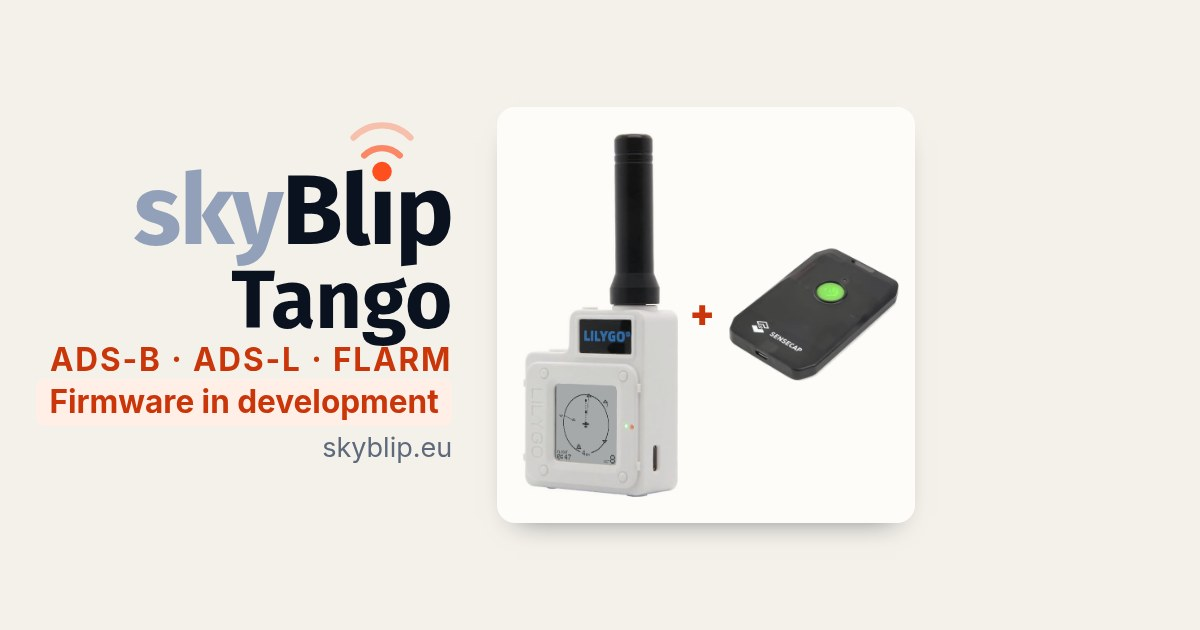
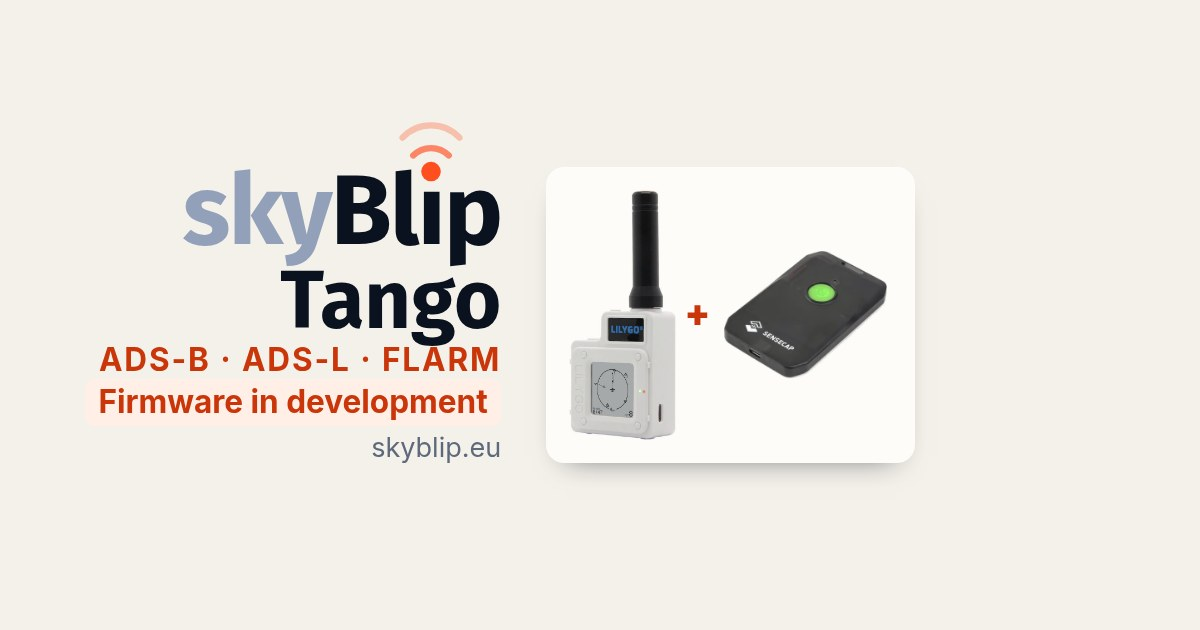
ui(website): draw the Go and the X1 at their real relative size
Every pair drew both photos at one height, so the X1 showed about 1.7
times too big beside the Go, and the share card about 30 % too small.
Measured off the X1's 90 mm edge and the T-Echo's 54 mm face, the X1
photo is 0.57 of the Go photo's height: photo-x1 carries that scale,
and every pair, lineup, offer and the Tango share card multiply by it.
The Tango card's pair shrinks to fit the square crop at that scale, and
the Tango caption now says to scale.

Changed region(s): [[0.0308, 0.181, 0.7708, 0.7841], [0.4317, 0.8143, 0.74, 0.8444]]

diff --git a/server/app/assets/stylesheets/products.css b/server/app/assets/stylesheets/products.css
@@ -32,7 +32,7 @@
   .lineup p:not(.status) { color: var(--card-ink); font-size: var(--text-s); }
   .lineup h2 a { color: var(--ink); }
 
-  .lineup .pair img { block-size: 8rem; }
+  .lineup .pair img { block-size: calc(8rem * var(--photo-scale, 1)); }
 
   @media (max-width: 40rem) {
     .lineup > li {
@@ -50,9 +50,9 @@
     .lineup > li > .pair { grid-row: span 3; grid-column: 1; justify-self: center; align-self: center; }
     .lineup > li > :not(.pair) { grid-column: 2; }
     .lineup h2 { margin: 0; }
-    .lineup .pair img { block-size: 4.5rem; }
+    .lineup .pair img { block-size: calc(4.5rem * var(--photo-scale, 1)); }
     .lineup .pair:has(.pair-plus) { gap: var(--space-inline-2xs); }
-    .lineup .pair:has(.pair-plus) img { block-size: 3.5rem; }
+    .lineup .pair:has(.pair-plus) img { block-size: calc(3.5rem * var(--photo-scale, 1)); }
   }
 
   .status {
@@ -74,7 +74,7 @@
   }
 
   .pair img {
-    block-size: 10rem;
+    block-size: calc(10rem * var(--photo-scale, 1));
     inline-size: auto;
     max-inline-size: 100%;
     mix-blend-mode: multiply;
@@ -94,7 +94,8 @@
     inline-size: min(220px, 100%);
   }
 
-  .offers .offer img.x1-photo { max-inline-size: min(220px, 100%); }
+  /* INFO: fc 11nov26 the X1 photo's height in Go photos, measured off the X1's 90 mm edge and the T-Echo's 54 mm face */
+  .photo-x1 { --photo-scale: 0.57; }
 
   .chooser {
     display: grid;

diff --git a/server/lib/share_images/card.css b/server/lib/share_images/card.css
@@ -60,6 +60,5 @@
   .card-photo--landscape { inline-size: 330px; }
   .card-photos .pair-plus { font-size: 2.5rem; }
   .card-photos:has(.pair-plus) { gap: var(--space-2xs); }
-  .card-photos:has(.pair-plus) .card-photo--portrait { block-size: 380px; }
-  .card-photos:has(.pair-plus) .card-photo--landscape { inline-size: 190px; }
+  .card-photos:has(.pair-plus) img { block-size: calc(260px * var(--photo-scale, 1)); inline-size: auto; }
 }

diff --git a/server/app/assets/stylesheets/sections.css b/server/app/assets/stylesheets/sections.css
@@ -310,7 +310,8 @@
   }
 
   .offers .offer img {
-    block-size: 16rem;
+    block-size: calc(16rem * var(--photo-scale, 1));
+    align-self: center;
     inline-size: auto;
     max-inline-size: 100%;
     object-fit: contain;

diff --git a/server/lib/share_images.rb b/server/lib/share_images.rb
@@ -7,6 +7,7 @@ class ShareImages
     "bravo" => { name: "Bravo", protocols: "ADS-B 1090 MHz", photos: %w[pages/skyblip-bravo/seeed-x1.avif], in_development: true },
     "tango" => { name: "Tango", protocols: "ADS-B · ADS-L · FLARM", photos: %w[pages/index/skyblip-go-techo.avif pages/skyblip-bravo/seeed-x1.avif], in_development: true }
   }
+  PHOTO_CLASSES = { "pages/skyblip-bravo/seeed-x1.avif" => "photo-x1" }
   DIRECTORY = Rails.root.join("content_images/share")
   TEMPLATE = Rails.root.join("lib/share_images/card.html.erb")
   STYLESHEET = Rails.root.join("lib/share_images/card.css")
